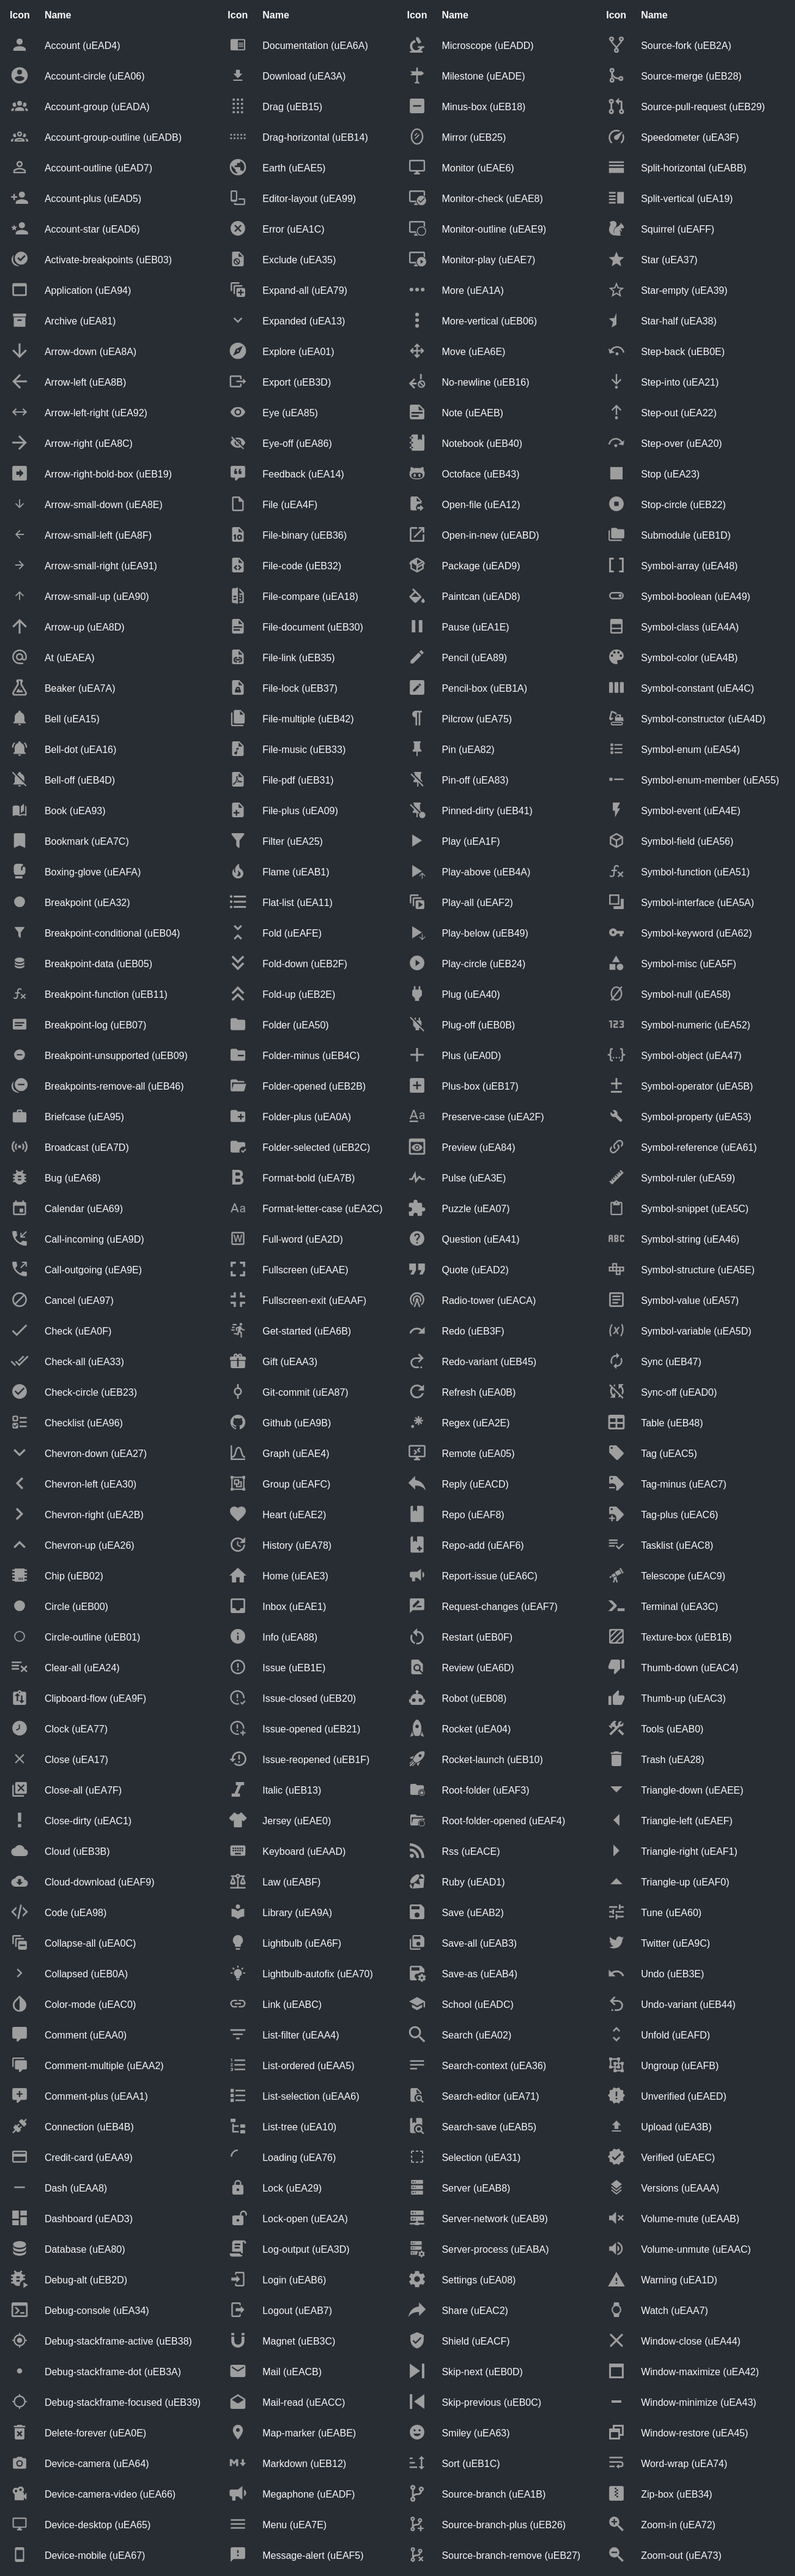
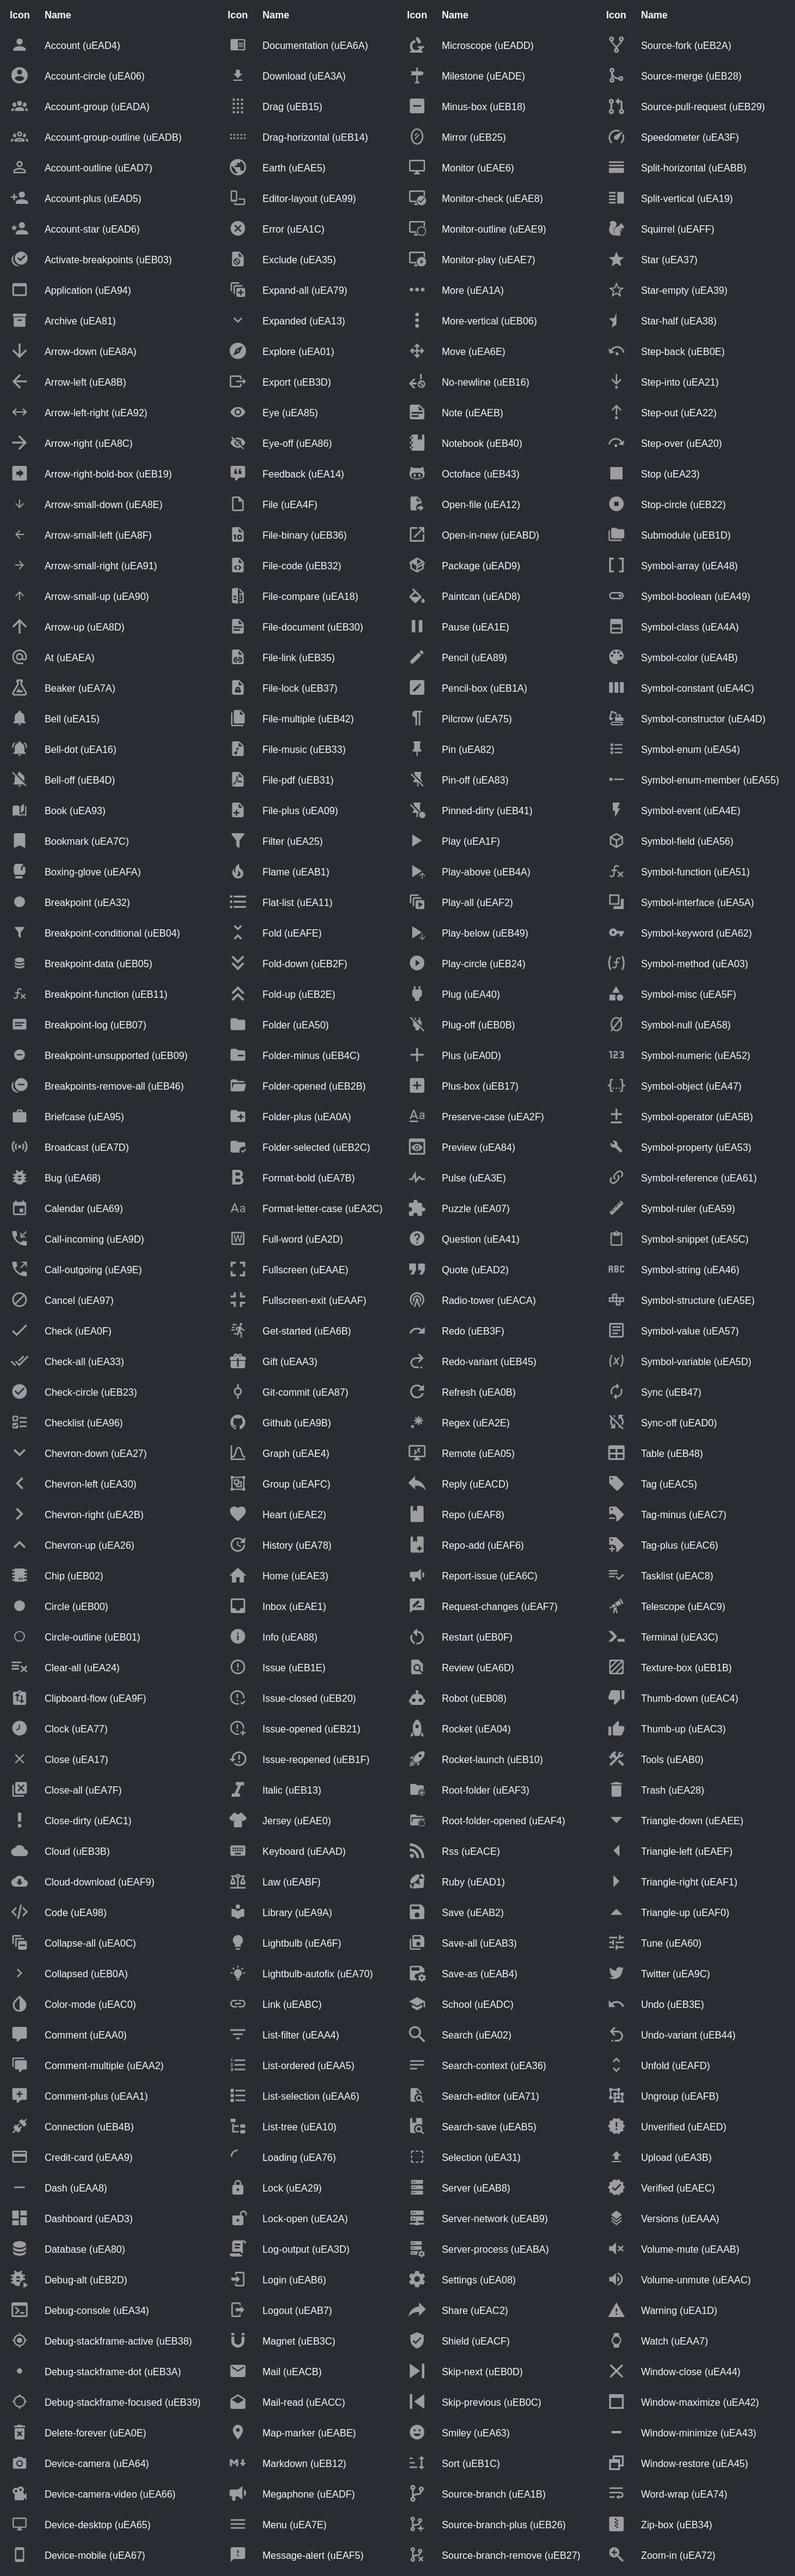
Release 1.7.0

diff --git a/CHANGELOG.md b/CHANGELOG.md
@@ -3,6 +3,14 @@
  All notable changes to this project will be documented in this file. Dates are displayed in UTC.
 
  
+#### [v1.7.0](https://github.com/PKief/vscode-material-product-icons/compare/v1.6.0...v1.7.0) 
+
+> October 25, 2023 
+
+- Add symbol method icon [`#60`](https://github.com/PKief/vscode-material-product-icons/pull/60)
+- Add additional icon associations [`dcb4d74`](https://github.com/PKief/vscode-material-product-icons/commit/dcb4d74)
+- Update dependencies [`0d764a8`](https://github.com/PKief/vscode-material-product-icons/commit/0d764a8)
+ 
 #### [v1.6.0](https://github.com/PKief/vscode-material-product-icons/compare/v1.5.0...v1.6.0) 
 
 > August 12, 2023 
